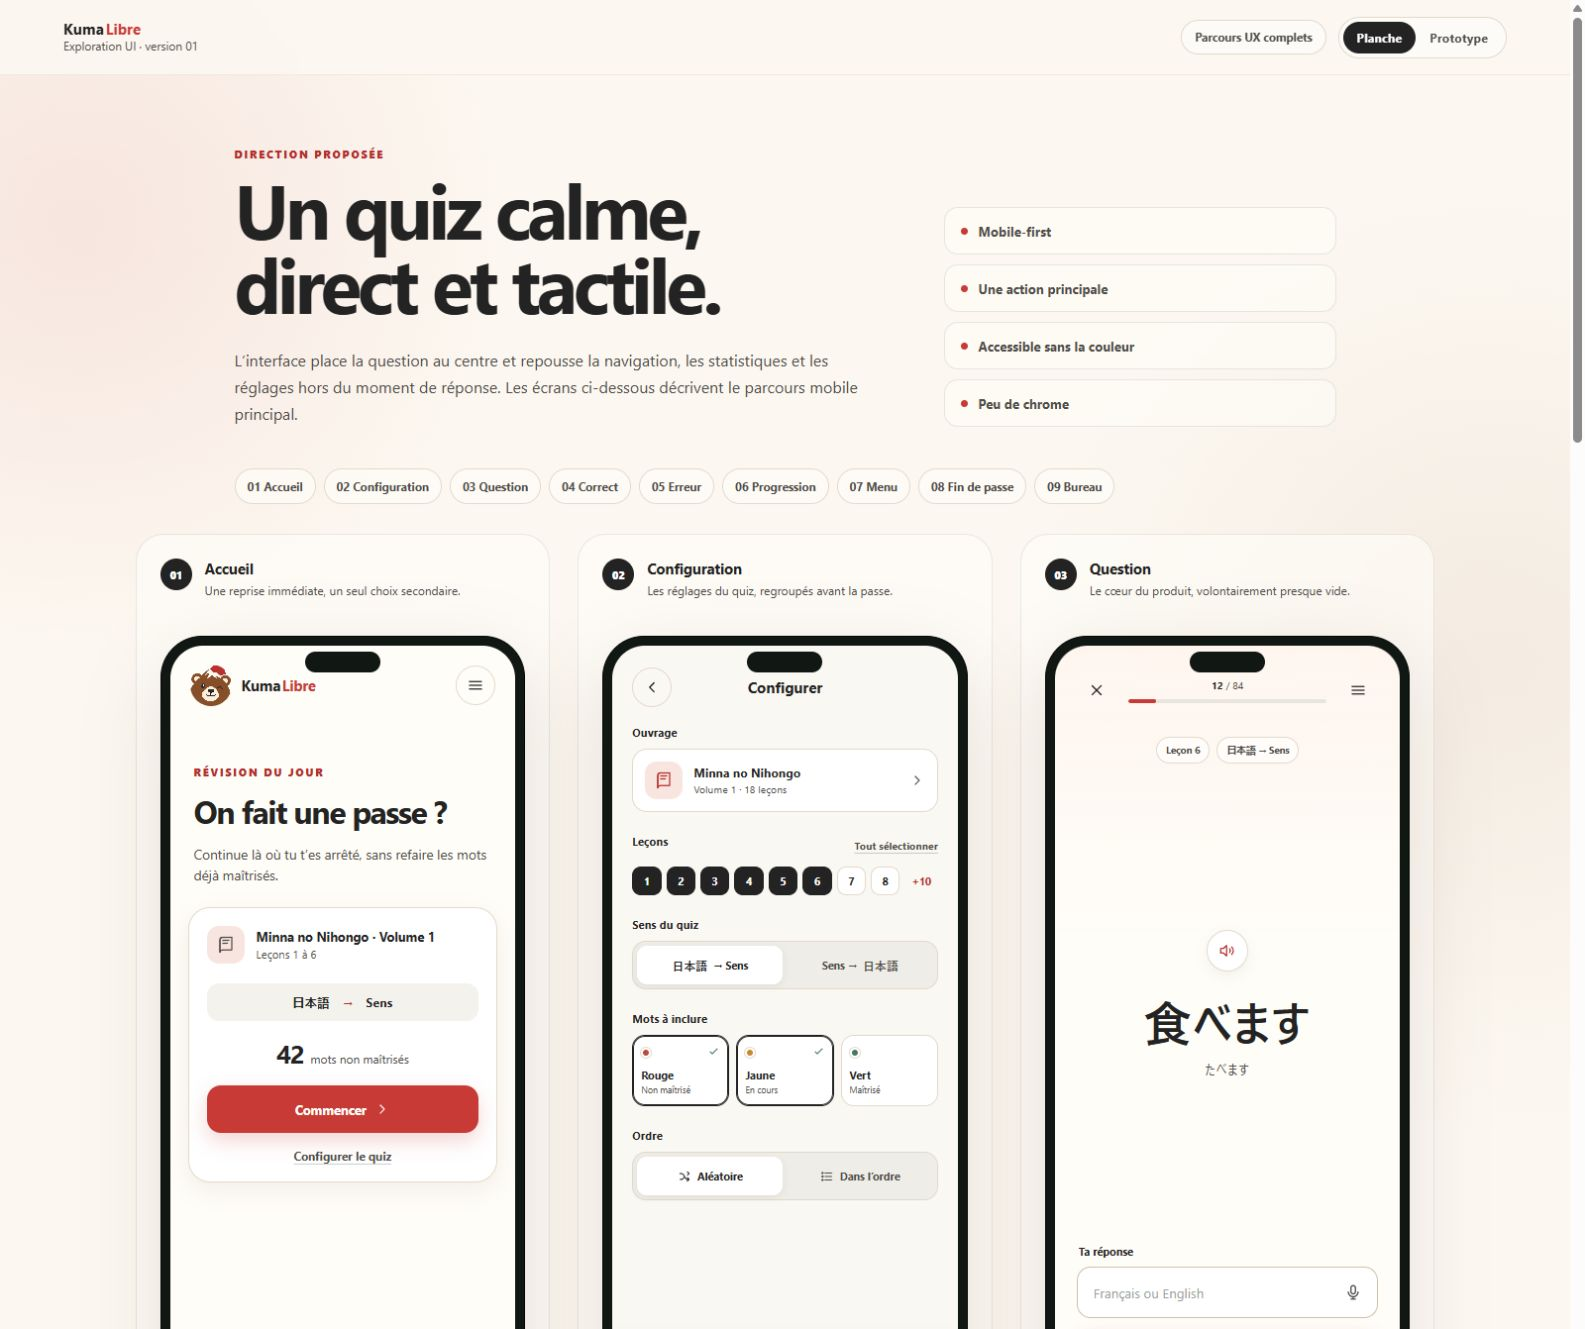
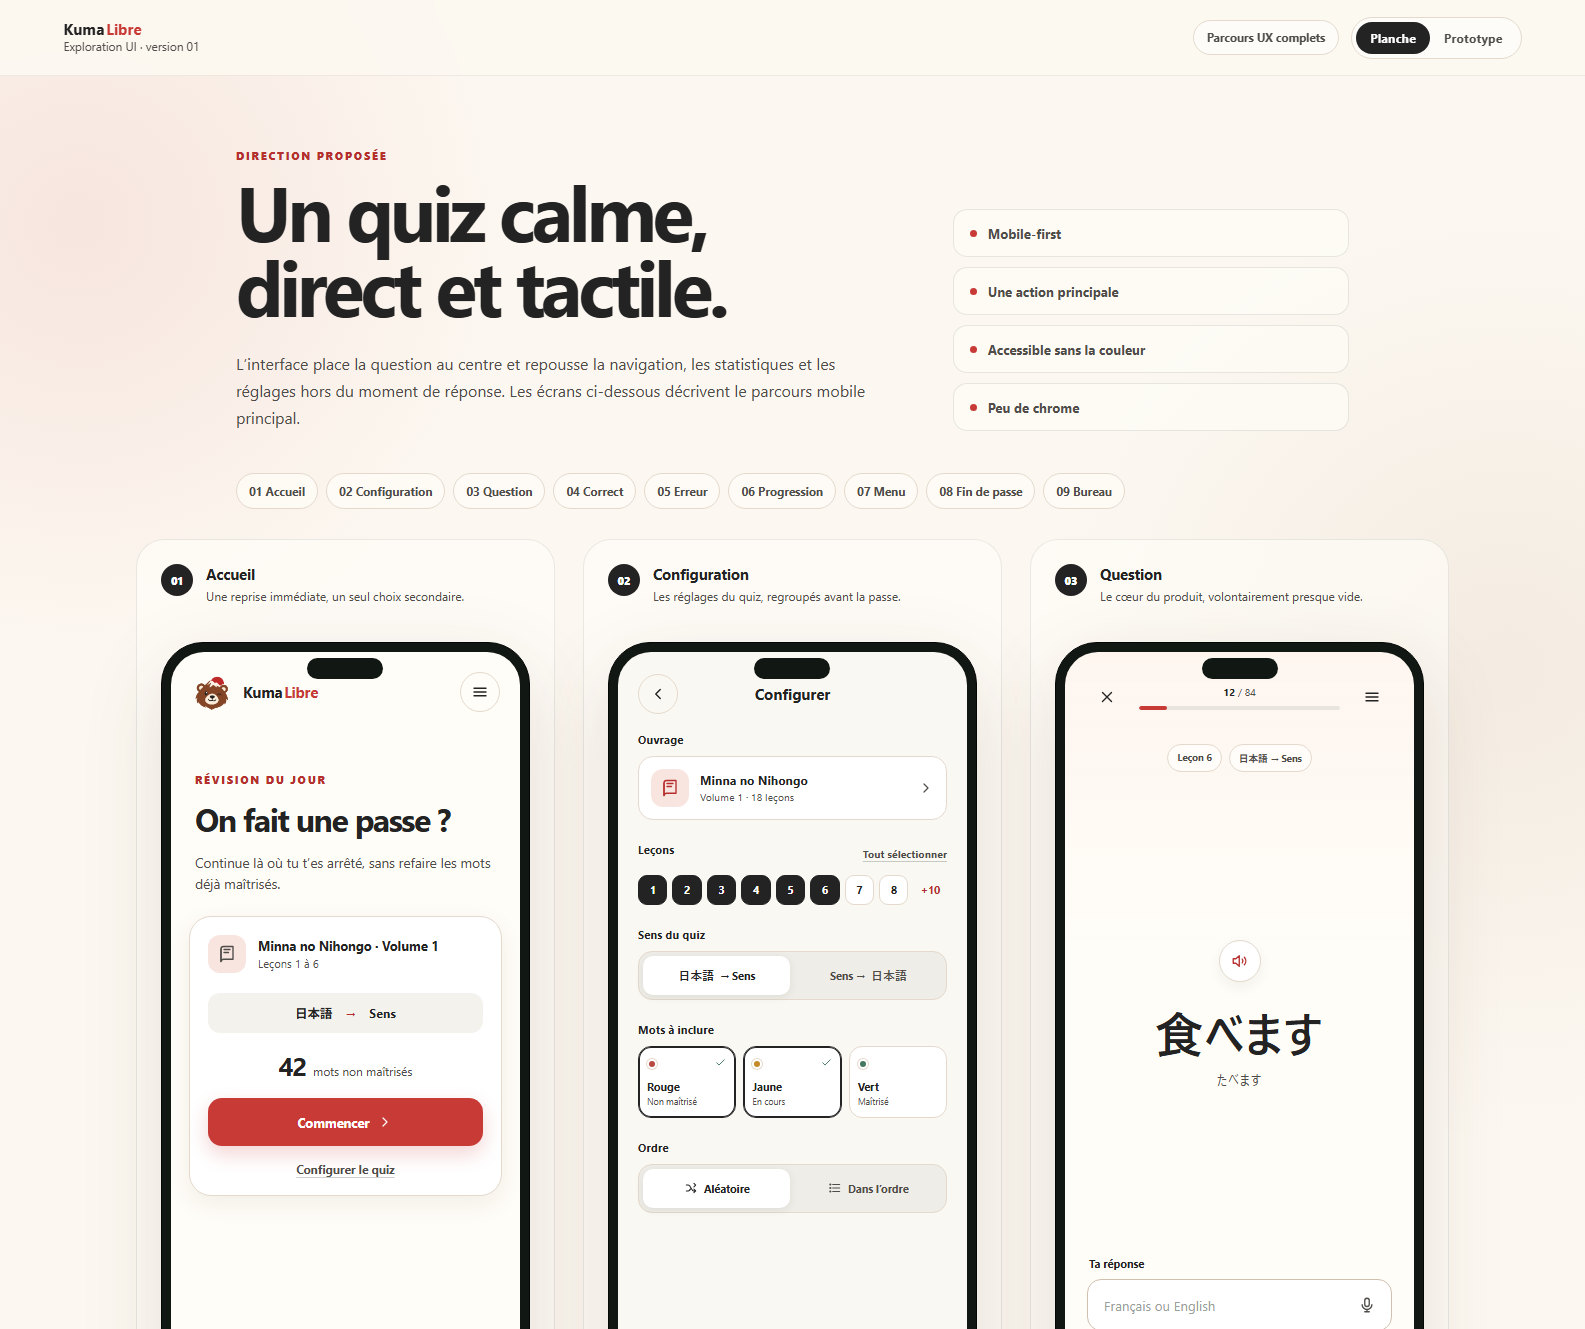
design: replace brand art with transparent assets

diff --git a/mockups/design-system/styles/brand.css b/mockups/design-system/styles/brand.css
@@ -9,9 +9,13 @@
 .kl-brand-art {
   display: block;
   flex: 0 0 auto;
-  background-color: var(--kl-color-surface);
+  background-color: transparent;
   background-position: 50% 50%;
   background-repeat: no-repeat;
+}
+
+.kl-brand-art--horizontal {
+  background-image: url("../assets/kuma-logo-horizontal.png");
 }
 
 .kl-brand-art--wordmark {
@@ -27,12 +31,11 @@
   width: 2.75rem;
   height: 2.75rem;
   flex: 0 0 auto;
-  border-radius: 50%;
-  background-color: var(--kl-color-surface);
+  background-color: transparent;
   background-image: url("../assets/kuma-bear-wink.png");
-  background-position: 50% 43%;
+  background-position: 50% 50%;
   background-repeat: no-repeat;
-  background-size: 188% auto;
+  background-size: contain;
 }
 
 .kl-brand__wordmark {

diff --git a/mockups/v1/flows.css b/mockups/v1/flows.css
@@ -102,12 +102,11 @@ button {
   display: block;
   width: 46px;
   height: 46px;
-  border-radius: 50%;
-  background-color: var(--surface);
+  background-color: transparent;
   background-image: url("../design-system/assets/kuma-bear-wink.png");
-  background-position: 50% 43%;
+  background-position: 50% 50%;
   background-repeat: no-repeat;
-  background-size: 188% auto;
+  background-size: contain;
 }
 
 .brand-wordmark {

diff --git a/mockups/v1/styles.css b/mockups/v1/styles.css
@@ -120,12 +120,11 @@ svg {
   flex: 0 0 auto;
   width: 42px;
   height: 42px;
-  border-radius: 50%;
-  background-color: var(--surface);
+  background-color: transparent;
   background-image: url("../design-system/assets/kuma-bear-wink.png");
-  background-position: 50% 43%;
+  background-position: 50% 50%;
   background-repeat: no-repeat;
-  background-size: 188% auto;
+  background-size: contain;
 }
 
 .brand-mark--small {

diff --git a/mockups/design-system/README.md b/mockups/design-system/README.md
@@ -6,10 +6,11 @@ Ce dossier transforme les références visuelles générées en fondations réut
 
 - `styles/tokens.css` contient la palette primitive et les rôles sémantiques, la typographie, les espacements, les rayons et les ombres.
 - `styles/tokens.scss` expose des alias SCSS vers les variables CSS, sans recopier les valeurs hexadécimales.
-- `styles/brand.css` fournit les variantes réutilisables de la marque, dont les deux compositions raster validées pour les maquettes.
-- `assets/kuma-bear-wink.png` est la référence raster provisoire de la mascotte avec son clin d’œil.
-- `assets/kuma-wordmark.png` contient le mot-symbole horizontal sans la mascotte.
-- `assets/kuma-logo-stacked.png` contient la composition verticale utilisée pendant le chargement.
+- `styles/brand.css` fournit les variantes réutilisables de la marque.
+- `assets/kuma-bear-wink.png` est la référence raster transparente de la mascotte avec son clin d’œil.
+- `assets/kuma-wordmark.png` contient le mot-symbole transparent sans la mascotte.
+- `assets/kuma-logo-horizontal.png` contient la composition horizontale transparente avec la mascotte.
+- `assets/kuma-logo-stacked.png` contient la composition verticale transparente utilisée pendant le chargement.
 
 ## Direction retenue
 
@@ -25,6 +26,7 @@ Pour afficher directement les compositions générées :
 
 ```html
 <span class="kl-brand-art kl-brand-art--wordmark" role="img" aria-label="Kuma Libre"></span>
+<span class="kl-brand-art kl-brand-art--horizontal" role="img" aria-label="Kuma Libre"></span>
 <span class="kl-brand-art kl-brand-art--stacked" role="img" aria-label="Kuma Libre"></span>
 ```
 
